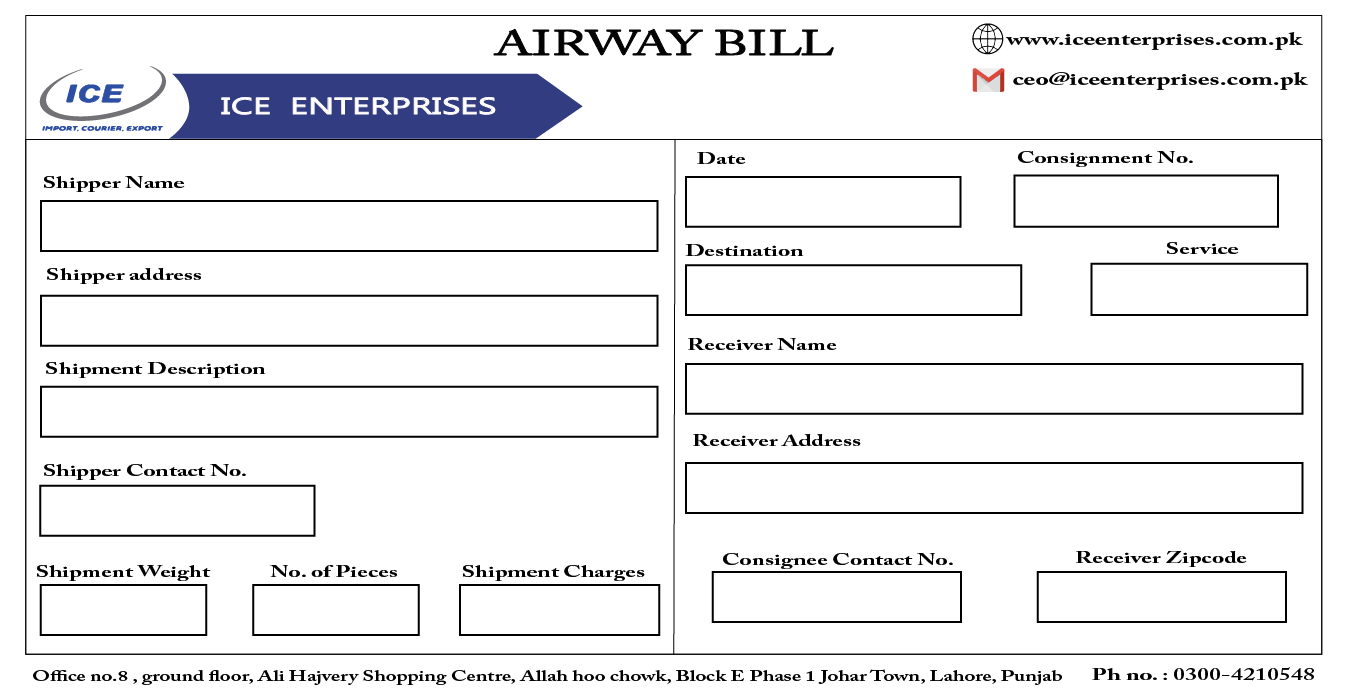
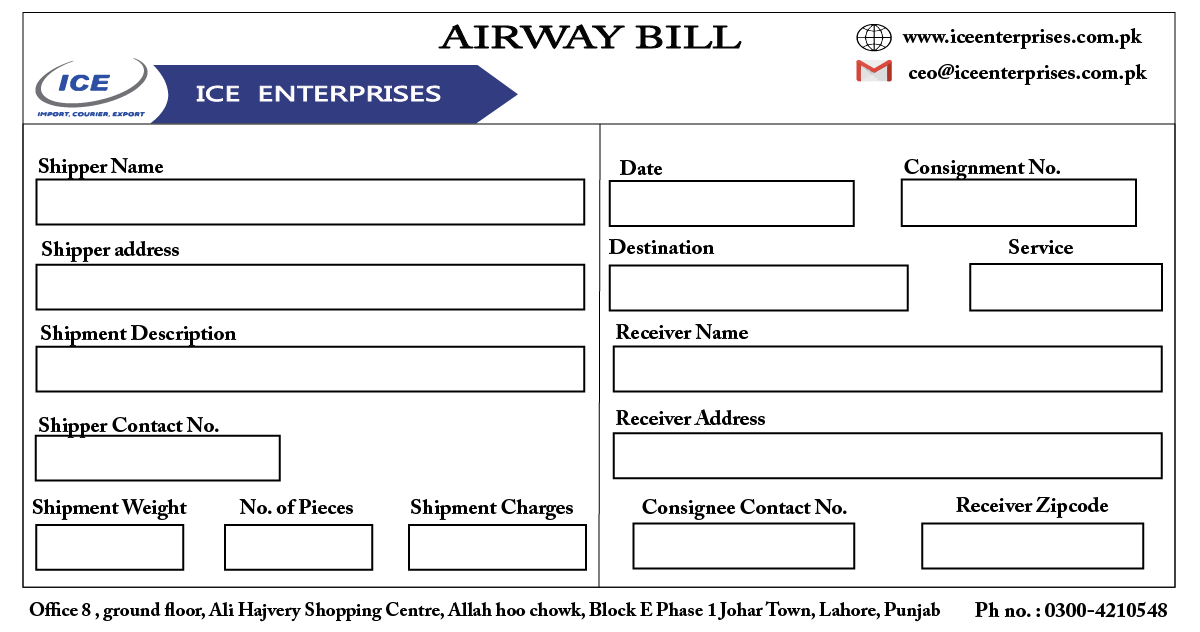
Fixed many issues according to the work computer

diff --git a/icepos.py b/icepos.py
@@ -578,24 +578,41 @@ def create_formatted_image(
     font = ImageFont.truetype("arial.ttf", 20)
     print("font")
     # Define the coordinates for placing text on the image
-    coordinates = {
-        "ship_name": (45, 210),
-        "ship_address": (45, 305),
-        "ship_desc": (45, 395),
-        "ship_dest": (700, 270),
-        "ship_serv": (1100, 270),
-        "rec_name": (700, 375),
-        "rec_address": (700, 470),
-        "rec_zipcode": (1052, 580),
-        "ship_weight": (45, 595),
-        "ship_charges": (470, 595),
-        "no_of_pieces": (252, 595),
-        "date": (697, 180),
-        "ship_contact": (45, 490),
-        "rec_contact": (725, 573),
-        "serial_no": (1100, 180),
-    }
+    # coordinates = {
+    #     "ship_name": (45, 190),
+    #     "ship_address": (45, 270),
+    #     "ship_desc": (45, 395),
+    #     "ship_dest": (700, 270),
+    #     "ship_serv": (1100, 270),
+    #     "rec_name": (700, 375),
+    #     "rec_address": (700, 470),
+    #     "rec_zipcode": (1052, 580),
+    #     "ship_weight": (45, 595),
+    #     "ship_charges": (470, 595),
+    #     "no_of_pieces": (252, 595),
+    #     "date": (697, 180),
+    #     "ship_contact": (45, 490),
+    #     "rec_contact": (725, 573),
+    #     "serial_no": (1100, 180),
+    # }
 
+    coordinates = {
+    "ship_name": (45, 190),
+    "ship_address": (45, 270),
+    "ship_desc": (45, 355),
+    "ship_contact": (45, 440),
+    "date": (620, 190),
+    "ship_dest": (620, 270),
+    "ship_serv": (990, 270),
+    "rec_name": (620, 350),
+    "rec_address": (620, 440),
+    "rec_zipcode": (940, 530),
+    "ship_weight": (45, 530),
+    "ship_charges": (430, 530),
+    "no_of_pieces": (230, 530),
+    "rec_contact": (650, 530),
+    "serial_no": (970, 190)
+}
     # Draw the text on the image
     draw.text(coordinates["ship_name"], f"{ship_name}", fill=(0, 0, 0), font=font)
     draw.text(coordinates["ship_address"], f"{ship_address}", fill=(0, 0, 0), font=font)
@@ -695,7 +712,7 @@ def generate_airway_bill_with_terms_and_conditions():
 
     # Save the combined image with the desired layout
     user = os.path.expanduser('~')
-    final_path = f"{user}\\Desktop\\Airway Bills\\"
+    final_path = f"{user}\\Desktop\\Airway-Bills\\"
     if not os.path.exists(final_path):
         os.makedirs(final_path)
     print(final_path + f"{current_date}.png")
@@ -774,7 +791,10 @@ def print_formatted_image():
             )
             # Format the date as needed
             user = os.path.expanduser('~')
-            final_path = f"{user}\\Desktop\\Airway Bills\\"
+            final_path = f"{user}\\Desktop\\Airway-Bills\\"
+            if not os.path.exists(final_path):
+                os.makedirs(final_path)
+	    
             print_image(final_path + f"{current_date}.png")
             
         except Exception as e:
@@ -852,11 +872,15 @@ personal_info_label = ctk.CTkLabel(
 )
 personal_info_label.pack(pady=2)
 
+
+
+# ------ INPUTS ---------
+
 # Shipper name (1)
 entry_ship_name = ctk.CTkEntry(
-    tab_control.tab("Submission"), width=550, font=("Arial", 14)
+    tab_control.tab("Submission"), width=540, font=("Arial", 14)
 )
-entry_ship_name.place(x=45, y=210)
+entry_ship_name.place(x=45, y=190)
 
 # Shipper Address (2)
 entry_ship_address = ctk.StringVar()
@@ -866,41 +890,42 @@ entry_ship_address_entry = ctk.CTkEntry(
     font=("Arial", 14),
     textvariable=entry_ship_address,
 )
-entry_ship_address_entry.place(x=45, y=305)
+
+entry_ship_address_entry.place(x=45, y=270)
 
 # Shipment Description (3)
 entry_ship_desc = ctk.CTkEntry(
     tab_control.tab("Submission"), width=550, font=("Arial", 14)
 )
-entry_ship_desc.place(x=45, y=395)
+entry_ship_desc.place(x=45, y=355)
 
 # Shipment Contact # (4)
 entry_ship_contact = ctk.CTkEntry(
     tab_control.tab("Submission"), width=240, font=("Arial", 14)
 )
-entry_ship_contact.place(x=45, y=490)
+entry_ship_contact.place(x=45, y=440)
 
 # Shipment Date (5)
 entry_date = DateEntry(tab_control.tab("Submission"), bootstyle="primary", width=37)
-entry_date.place(x=697, y=190)
+entry_date.place(x=620, y=190)
 
 # Shipment Destination (6)
 entry_ship_dest = ctk.CTkEntry(
     tab_control.tab("Submission"), width=280, font=("Arial", 14)
 )
-entry_ship_dest.place(x=700, y=270)
+entry_ship_dest.place(x=620, y=270)
 
 # Shipment Service (7)
 entry_ship_serv = ctk.CTkEntry(
     tab_control.tab("Submission"), width=180, font=("Arial", 14)
 )
-entry_ship_serv.place(x=1100, y=270)
+entry_ship_serv.place(x=970, y=270)
 
 # Receiver Name (8)
 entry_rec_name = ctk.CTkEntry(
     tab_control.tab("Submission"), width=550, font=("Arial", 14)
 )
-entry_rec_name.place(x=700, y=375)
+entry_rec_name.place(x=620, y=350)
 
 # Receiver Address (9)
 entry_rec_address = ctk.StringVar()
@@ -910,37 +935,37 @@ entry_rec_address_entry = ctk.CTkEntry(
     font=("Arial", 14),
     textvariable=entry_rec_address,
 )
-entry_rec_address_entry.place(x=700, y=470)
+entry_rec_address_entry.place(x=620, y=440)
 
 # Receiver Zipcode (10)
 entry_rec_zipcode = ctk.CTkEntry(
     tab_control.tab("Submission"), width=200, font=("Arial", 14)
 )
-entry_rec_zipcode.place(x=1052, y=580)
+entry_rec_zipcode.place(x=940, y=530)
 
 # Shipment Weight (11)
 entry_ship_weight = ctk.CTkEntry(
     tab_control.tab("Submission"), width=140, font=("Arial", 14)
 )
-entry_ship_weight.place(x=45, y=595)
+entry_ship_weight.place(x=45, y=530)
 
 # Shipment Charges (12)
 entry_ship_charges = ctk.CTkEntry(
     tab_control.tab("Submission"), width=150, font=("Arial", 14)
 )
-entry_ship_charges.place(x=470, y=595)
+entry_ship_charges.place(x=430, y=530)
 
 # No. of Pieces (13)
 entry_no_of_pieces = ctk.CTkEntry(
     tab_control.tab("Submission"), width=130, font=("Arial", 14)
 )
-entry_no_of_pieces.place(x=260, y=595)
+entry_no_of_pieces.place(x=230, y=530)
 
 # Consignee Contact (14)
 entry_rec_contact = ctk.CTkEntry(
     tab_control.tab("Submission"), width=200, font=("Arial", 14)
 )
-entry_rec_contact.place(x=725, y=577)
+entry_rec_contact.place(x=650, y=530)
 
 # Create a connection to the SQLite database
 conn = sqlite3.connect("ice-answers.db")

diff --git a/custom_widgets.py b/custom_widgets.py
@@ -2,16 +2,16 @@ from CTkMessagebox import CTkMessagebox
 
 class CustomMessagebox:
     def showinfo(title, message):
-        CTkMessagebox(title=title, message=message, sound=True, icon="icons\info.png", fade_in_duration=3)
+        CTkMessagebox(title=title, message=message, sound=True, icon="icons\info.png", fade_in_duration=2)
 
     def showerror(title, message):
-        CTkMessagebox(title=title, message=message, icon="icons\cancel.png", sound=True, fade_in_duration=3)
+        CTkMessagebox(title=title, message=message, icon="icons\cancel.png", sound=True, fade_in_duration=2)
 
     def askyesno(title, message):
             # get yes/no answers
             msg = CTkMessagebox(title=title, message=message,
                                 icon="icons\question.png", option_1="Cancel", option_2="No", option_3="Yes",
-                                 sound=True, fade_in_duration=3)
+                                 sound=True, fade_in_duration=2)
             response = msg.get()
             return response
 
